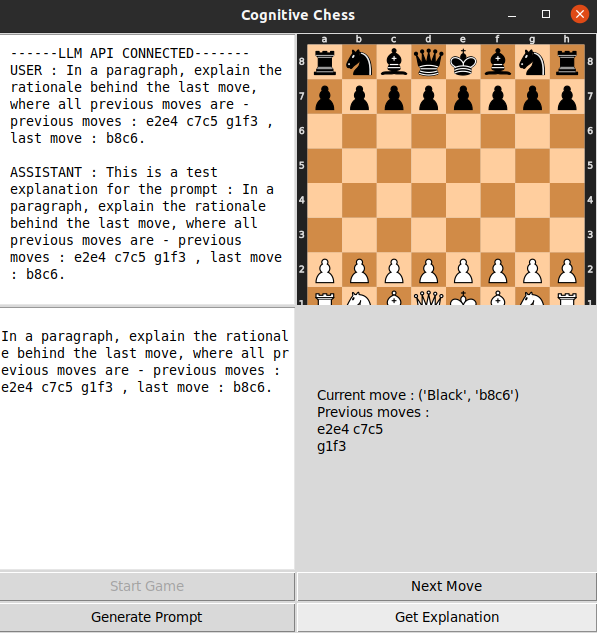
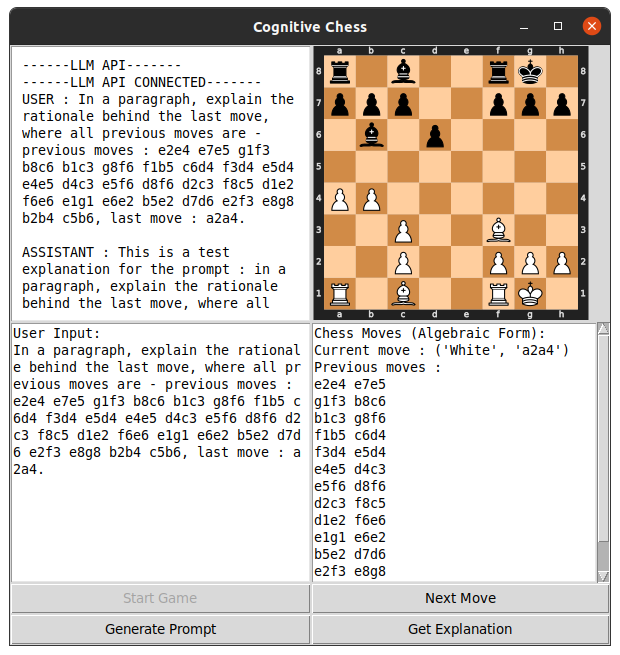
canvas working now

diff --git a/render_board_needs_fix.py b/render_board_needs_fix.py
@@ -40,11 +40,6 @@ class ChessBoard(tk.Tk):
         self.title("Cognitive Chess")
         self.geometry("600x600")
         
-        # convert
-        convert_svg_to_png("board.svg", "board.png")
-        self.image = Image.open("board.png")
-        self.photo = ImageTk.PhotoImage(self.image)
-        
         # GUI Components
         self.create_widgets(state)
         
@@ -65,8 +60,10 @@ class ChessBoard(tk.Tk):
         self.generated_text_box.insert(tk.END, "------LLM API-------" + "\n")
         
         # Chess Board Display
+        self.load_image()
         self.canvas = tk.Canvas(self, width=self.image.width, height=self.image.height)
         self.canvas.grid(row=0, column=1, sticky="nw")
+        self.photo = ImageTk.PhotoImage(self.image)
         self.canvas.create_image(0, 0, anchor=tk.NW, image=self.photo)
 
         # # label
@@ -116,7 +113,10 @@ class ChessBoard(tk.Tk):
                                             command= self.get_explanation_and_update_text)
         self.explanation_button.grid(row=3, column=1, sticky="ew")
 
-    
+    def load_image(self):
+        convert_svg_to_png("board.svg", "board.png")
+        self.image = Image.open("board.png")
+
     def disable_click(self, event):
         return "break"
     
@@ -137,6 +137,11 @@ class ChessBoard(tk.Tk):
         # refresh the label text
         self.entry.delete("2.0", tk.END)
         self.entry.insert(tk.END, "\n"+render_move_text(rec_moves))
+        MyChess(rec_moves)
+        convert_svg_to_png("board.svg", "board.png")
+        self.load_image()
+        self.photo = ImageTk.PhotoImage(self.image)
+        self.canvas.create_image(0, 0, anchor=tk.NW, image=self.photo)
         # self.entry.config(text=render_move_text(rec_moves))
         # print(f"==========================>{rec_moves}")
 
@@ -169,5 +174,5 @@ class ChessBoard(tk.Tk):
 
 if __name__ == "__main__":
     moves = ""
-    gui_app = ChessBoard(MyChess(moves))
+    gui_app = ChessBoard(MyChess(rec_moves))
     gui_app.mainloop()

diff --git a/test.py b/test.py
@@ -1,3 +1,47 @@
 from send_move_api import url, send_moves
 
 print(send_moves("e2e4", "http://127.0.0.1:5000/rl_move"))
+# import tkinter as tk
+# from PIL import Image, ImageTk
+
+# class MyApp(tk.Tk):
+#     def __init__(self):
+#         super().__init__()
+
+#         self.title("PNG Image Viewer")
+
+#         # Initial load of the PNG image
+#         self.load_image()
+
+#         # Create a canvas
+#         self.canvas = tk.Canvas(self, width=self.image.width, height=self.image.height)
+#         self.canvas.grid(row=0, column=0, sticky="nw")
+
+#         # Display the initial image on the canvas
+#         self.photo = ImageTk.PhotoImage(self.image)
+#         self.canvas.create_image(0, 0, anchor=tk.NW, image=self.photo)
+
+#         # Create a button to update the image
+#         self.update_button = tk.Button(self, text="Update Image", command=self.update_image)
+#         self.update_button.grid(row=1, column=0, pady=10)
+
+#     def load_image(self):
+#         # Load the PNG image
+#         self.image = Image.open("board.png")
+
+#     def update_image(self):
+#         # Reload the PNG image
+#         self.load_image()
+
+#         # Convert the reloaded image to PhotoImage and update the canvas
+#         self.photo = ImageTk.PhotoImage(self.image)
+#         self.canvas.config(width=self.image.width, height=self.image.height)
+#         self.canvas.create_image(0, 0, anchor=tk.NW, image=self.photo)
+
+# if __name__ == "__main__":
+#     app = MyApp()
+#     app.mainloop()
+# from render_board_needs_fix import convert_svg_to_png
+# from MyChess import MyChess
+# MyChess("d4 d6 Bf4 e5 Bg3 Nf6 e3 exd4 exd4 d5 c3 Bd6 Bd3 O-O Nd2 Re8+ Kf1 Bxg3 hxg3 b6 g4 Ba6 g5 Bxd3+ Ne2 Ne4 Nxe4 Bxe4 Nf4 Qxg5 Nh3 Bxg2+ Kg1 Qg6 Nf4 Qg5 Nxg2 Re6 Qd3 Rh6 Qe2 Nc6 Re1 g6 f4 Rxh1+ Kxh1 Qh6+ Kg1 a5 Qb5 Na7 Re8+ Rxe8 Qxe8+ Kg7 Qe5+ Kg8 Qxc7 Qh5 Qxa7 Qd1+ Kh2 Qa1 Nh4 Qxb2+ Kh3 Qxc3+ Kg4 Qxd4 Qb8+ Kg7 Nf3 Qa1 Kg5 Qxa2 Ne5 Qg2+ Kh4 h5 Nxf7 Qg4#")
+# convert_svg_to_png("board.svg", "test.png")

diff --git a/render_board.py b/render_board.py
@@ -19,7 +19,7 @@ from llm_listen_api import llm_listen_app
 
 # global variables
 board = chess.Board()
-stockfish_path = r"C:\Users\DELL\AppData\Local\miscApps\stockfish-windows-x86-64-avx2.exe"
+stockfish_path = "./stockfish/stockfish-ubuntu-x86-64-avx2"
 engine = chess.engine.SimpleEngine.popen_uci(stockfish_path)
 rec_moves = ""
 
@@ -29,7 +29,7 @@ from utils import render_move_text, generate_prompt, prepare
 def convert_svg_to_png(svg_file, png_file):
     with open(svg_file, "rb") as f:
         svg_data = f.read()
-    png_data = cairosvg.svg2png(bytestring=svg_data, output_width=300, output_height=300)
+    png_data = cairosvg.svg2png(bytestring=svg_data, output_width=300, output_height=275) #300 works
     with open(png_file, "wb") as f:
         f.write(png_data)
 
